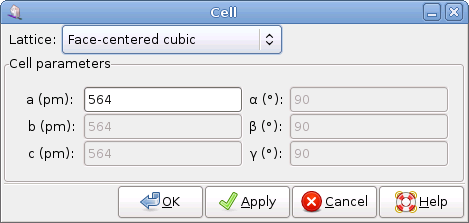
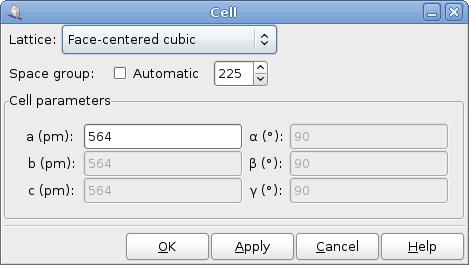
2010-04-21  Jean Brefort  <jean.brefort@normalesup.org> 	* docs/help/crystal/C/gcrystal.xml: user help updated. 	* libs/gccv/leaf.cc: fixed typo in comment. 	* libs/gccv/leaf.h: API documentation work. 	* libs/gccv/line-item.h: ditto. 	* libs/gcu/crystaldoc.cc: force space group detection for old fi

diff --git a/libs/gccv/leaf.h b/libs/gccv/leaf.h
@@ -25,34 +25,130 @@
 #ifndef GCCV_LEAF_H
 #define GCCV_LEAF_H
 
+/*!\file*/
+
 #include "fill-item.h"
 #include "structs.h"
 
 namespace gccv {
 
-class Leaf: public FillItem
+/*!
+@brief A drop or leaf item.
+
+The Leaf item looks like a drop or some type of tree leaf:
+@image html gccvleaf.png
+*/
+	class Leaf: public FillItem
 {
 public:
+/*!
+@param canvas a Canvas.
+@param x the leaf origin horizontal position.
+@param y the leaf origin vertical position.
+@param radius the leaf radius.
+
+Creates a new Leaf and sets it as a child of the root Group of \a canvas. The
+origin is the angular point, and the radius the distance between the origin and
+the opposite point.
+*/
 	Leaf (Canvas *canvas, double x, double y, double radius);
+/*!
+@param parent the Group to which the new Leaf will be added.
+@param x the leaf origin horizontal position.
+@param y the leaf origin vertical position.
+@param radius the leaf radius.
+@param client the ItemClient for the new Leaf if any.
+
+Creates a new Leaf inside \a parent and sets \a client as its associated
+ItemClient. The origin is the angular point, and the radius the distance
+between the origin and the opposite point.
+*/
 	Leaf (Group *parent, double x, double y, double radius, ItemClient *client = NULL);
+/*!
+The destructor.
+*/
 	virtual ~Leaf ();
 
+/*!
+@param x the new leaf origin horizontal position.
+@param y the new leaf origin vertical position.
+
+Sets the position of the leaf origin.
+*/
 	void SetPosition (double x, double y);
+/*!
+@param x where to store the leaf originhorizontal position.
+@param y where to store the leaf origin vertical position.
+
+Retreives the position of the leaf origin.
+*/
 	void GetPosition (double &x, double &y);
+/*!
+@param factor the new width factor.
+
+Sets the width of the leaf relative to its radius. Actually, the width is
+0.8 * factor * radius.
+*/
+	void SetWidthFactor (double factor);
 
 	// virtual methods
+/*!
+@param x horizontal position
+@param y vertical position
+@param item where to store the Item.
+
+Implementation of Item::Distance() for the Leaf class. Sets \a item to \a this.
+*/
 	double Distance (double x, double y, Item **item) const;
+/*!
+@param cr a cairo_t.
+@param is_vector whether the cairo_t is a vectorial context.
+
+Draws the Leaf to \a cr.
+*/
 	void Draw (cairo_t *cr, bool is_vector) const;
-	void UpdateBounds ();
+/*!
+@param x the horizontal deplacement
+@param y the vertical deplacement
+
+Moves the Leaf.
+*/
 	void Move (double x, double y);
-	void SetWidthFactor (double factor);
+
+protected:
+/*!
+Evaluates the Arrow bounds.
+*/
+	void UpdateBounds ();
 
 private:
 	double m_x, m_y;
 	gccv::Point m_Controls[11];
 
+/*!\fn SetRadius(double radius)
+@param radius the new leaf radius.
+
+Sets the radius for the leaf. The radius is defined as the distance
+between the origin and the opposite point.
+*/
+/*!\fn GetRadius()
+@return the current Leaf radius.
+*/
 GCCV_ITEM_POS_PROP (double, Radius)
+/*!\fn SetRotation(double rotation)
+@param rotation the new orientation in radians.
+
+Sets the orientation relative to the up vertical direction, using the
+trigonometric convention. 
+*/
+/*!\fn GetRotation()
+@return the current Leaf orientation.
+*/
 GCCV_ITEM_POS_PROP (double, Rotation)
+/*!\fn GetWidthFactor()
+@return the width factor for the Leaf. Actually, the width is
+0.8 * factor * radius.
+*/
 GCU_RO_PROP (double, WidthFactor)
 };
 

diff --git a/libs/gccv/line-item.h b/libs/gccv/line-item.h
@@ -39,11 +39,42 @@ This base class implements the common properties of all lines.
 */
 class LineItem: public Item {
 public:
+/*!
+@param canvas a Canvas.
+
+Creates a new LineItem and sets it as a child of the root Group of \a canvas.
+*/
 	LineItem (Canvas *canvas);
+/*!
+@param parent the Group to which the new LineItem will be added.
+@param client the ItemClient for the new LineItem if any.
+
+Creates a new LineItem inside \a parent and sets \a client as its associated
+ItemClient.
+*/
 	LineItem (Group *parent, ItemClient *client = NULL);
+/*!
+The destructor.
+*/
 	virtual ~LineItem ();
 
+/*!\fn SetLineWidth(double width)
+@param the new line width.
+
+Sets the LineItem line width.
+*/
+/*!\fn GetLineWidth()
+@return the line width
+*/
 GCCV_ITEM_PROP (double, LineWidth)
+/*!\fn SetLineColor(GOColor color)
+@param color the new line color.
+
+Sets the LineItem color.
+*/
+/*!\fn GetLineColor()
+@return the line color.
+*/
 GCCV_ITEM_PROP (GOColor, LineColor)
 };
 

diff --git a/programs/crystal/celldlg.cc b/programs/crystal/celldlg.cc
@@ -170,7 +170,7 @@ bool gcCellDlg::Apply ()
 void gcCellDlg::OnTypeChanged ()
 {
 	gcLattices i = (gcLattices) gtk_combo_box_get_active (TypeMenu);
-	gcu::SpaceGroup const *spg = m_pDoc->GetAutoSpaceGroup ()? m_pDoc->GetSpaceGroup (): NULL;
+	gcu::SpaceGroup const *spg = m_pDoc->GetSpaceGroup ();
 	std::string name = (spg)? spg->GetHMName (): "";
 	unsigned id = gtk_spin_button_get_value (SpaceGroup);
 	switch (i) {
@@ -299,7 +299,7 @@ monoclinic_end:
 		break;
 	}
 	g_signal_handler_block (SpaceGroup, SpaceGroupSignal);
-	gtk_spin_button_set_value (SpaceGroup, id);
+	gtk_spin_button_set_value (SpaceGroup, (spg)? spg->GetId (): id);
 	g_signal_handler_unblock (SpaceGroup, SpaceGroupSignal);
 }
 

diff --git a/programs/crystal/application.cc b/programs/crystal/application.cc
@@ -360,6 +360,8 @@ bool gcApplication::FileProcess (const gchar* filename, const gchar* mime_type, 
 normal_exit:
 			GtkRecentData data;
 			data.display_name = (char*) Doc->GetTitle ();
+			if (!(*data.display_name))
+				data.display_name = (char*) Doc->GetLabel ();
 			data.description = NULL;
 			data.mime_type = const_cast<char*> (mime_type);
 			data.app_name = const_cast<char*> ("gcrystal");

diff --git a/libs/gccv/leaf.cc b/libs/gccv/leaf.cc
@@ -109,7 +109,7 @@ double Leaf::Distance (double x, double y, Item **item) const
 #define LEAF_INCR2	.2
 // x position of side limit
 #define LEAF_INCR3	.4
-// y position of control point befre the side limit
+// y position of control point before the side limit
 #define LEAF_INCR4	.4
 // y position of side limit
 #define LEAF_INCR5	.6

diff --git a/programs/crystal/document.cc b/programs/crystal/document.cc
@@ -345,6 +345,8 @@ bool gcDocument::Load (const string &filename)
 {
 	xmlDocPtr xml = NULL;
 	gchar *oldfilename, *oldtitle;
+	// close all dialogs
+	ClearDialogs ();
 	if (m_filename)
 		oldfilename = g_strdup (m_filename);
 	else oldfilename = NULL;

diff --git a/libs/gcu/crystaldoc.cc b/libs/gcu/crystaldoc.cc
@@ -156,6 +156,7 @@ void CrystalDoc::ParseXMLTree (xmlNode* xml)
 	bool bViewLoaded = false;
 
 	Reinit ();
+	m_SpaceGroup = NULL;
 	old_num_locale = g_strdup (setlocale (LC_NUMERIC, NULL));
 	setlocale (LC_NUMERIC, "C");
 	//look for generator node
